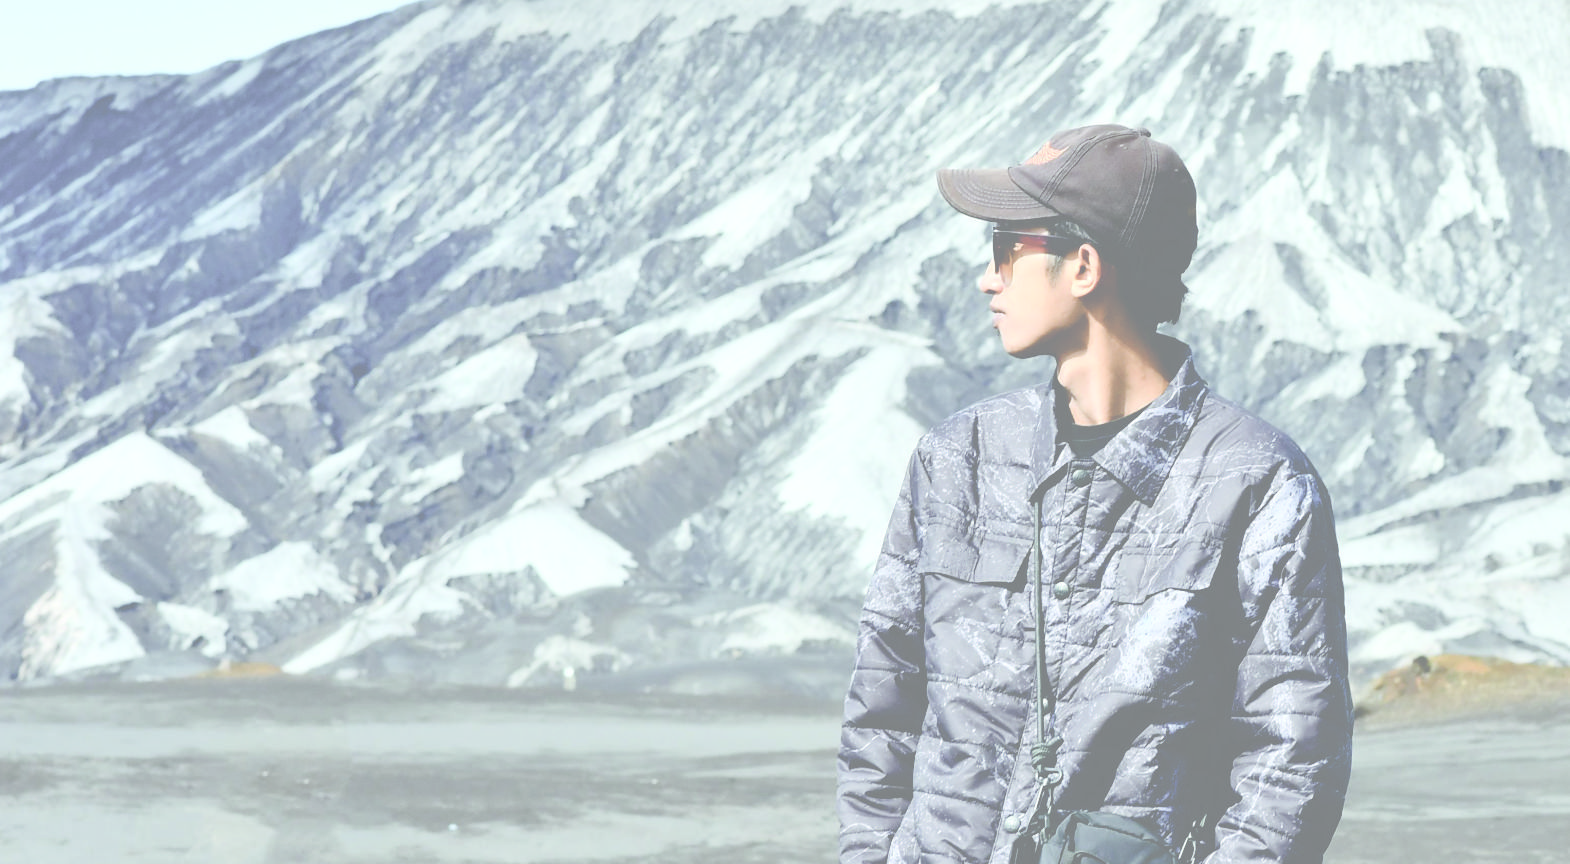
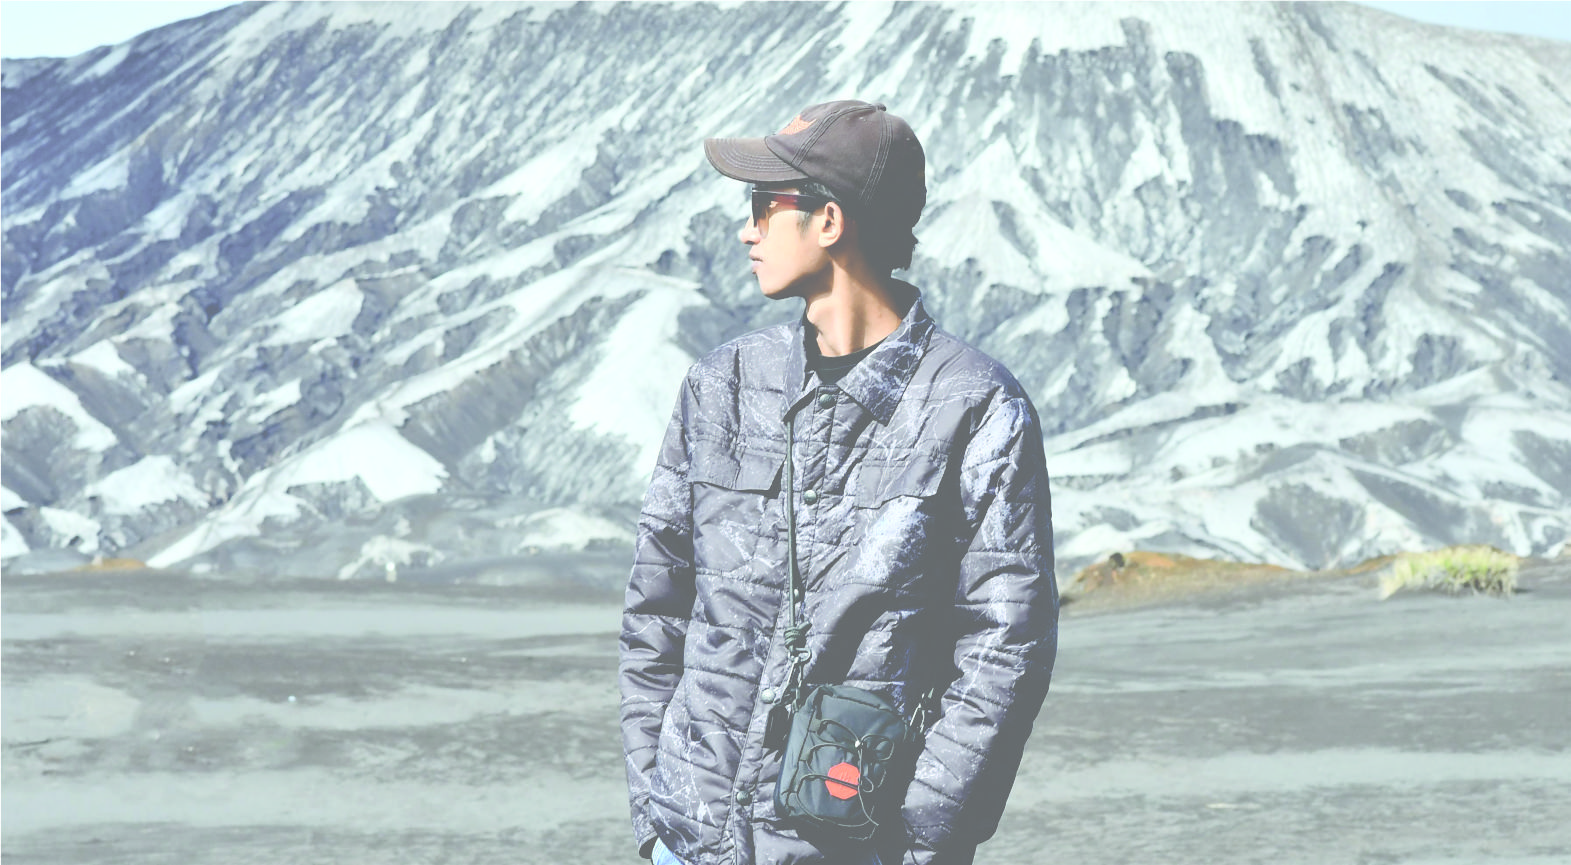
Rubah Full

diff --git a/index.html b/index.html
@@ -67,7 +67,7 @@
       <div class="container" data-aos="zoom-out">
         <div class="row justify-content-center">
           <div class="col-lg-9">
-            <h2>Halo Dunia</h2>
+            <h2>Halimi Hayat</h2>
             <p>I'm <span class="typed"
                 data-typed-items="Designer, Content Writer, Digital Marketing, Freelancer, Photographer">Designer</span><span
                 class="typed-cursor typed-cursor--blink" aria-hidden="true"></span></p>
@@ -404,8 +404,8 @@
                 <p>link for details</p>
                 <a href="assets/img/masonry-portfolio/masonry-portfolio-1.jpg" title="App 1"
                   data-gallery="portfolio-gallery-app" class="glightbox preview-link"><i class="bi bi-zoom-in"></i></a>
-                <a href="portfolio-details.html" title="More Details" class="details-link"><i
-                    class="bi bi-link-45deg"></i></a>
+                <a href="https://www.instagram.com/p/C-kJVYeJw4Q/?utm_source=ig_web_copy_link&igsh=MzRlODBiNWFlZA=="
+                  title="More Details" class="details-link"><i class="bi bi-link-45deg"></i></a>
               </div>
             </div><!-- End Portfolio Item -->
 
@@ -417,8 +417,8 @@
                 <a href="assets/img/masonry-portfolio/masonry-portfolio-2.jpg" title="Product 1"
                   data-gallery="portfolio-gallery-product" class="glightbox preview-link"><i
                     class="bi bi-zoom-in"></i></a>
-                <a href="portfolio-details.html" title="More Details" class="details-link"><i
-                    class="bi bi-link-45deg"></i></a>
+                <a href="https://www.youtube.com/@LEMBAGAPESANTRENAL-HASANY" title="More Details"
+                  class="details-link"><i class="bi bi-link-45deg"></i></a>
               </div>
             </div><!-- End Portfolio Item -->
 
@@ -430,8 +430,8 @@
                 <a href="assets/img/masonry-portfolio/masonry-portfolio-3.jpg" title="Branding 1"
                   data-gallery="portfolio-gallery-branding" class="glightbox preview-link"><i
                     class="bi bi-zoom-in"></i></a>
-                <a href="portfolio-details.html" title="More Details" class="details-link"><i
-                    class="bi bi-link-45deg"></i></a>
+                <a href="https://www.instagram.com/pwformasiruasurabayaa?utm_source=ig_web_button_share_sheet&igsh=ZDNlZDc0MzIxNw=="
+                  title="More Details" class="details-link"><i class="bi bi-link-45deg"></i></a>
               </div>
             </div><!-- End Portfolio Item -->
 
@@ -442,8 +442,8 @@
                 <p>link for details</p>
                 <a href="assets/img/masonry-portfolio/masonry-portfolio-4.jpg" title="App 2"
                   data-gallery="portfolio-gallery-app" class="glightbox preview-link"><i class="bi bi-zoom-in"></i></a>
-                <a href="portfolio-details.html" title="More Details" class="details-link"><i
-                    class="bi bi-link-45deg"></i></a>
+                <a href="https://www.instagram.com/reel/DCRc6dzqk4Y/?utm_source=ig_web_copy_link&igsh=MzRlODBiNWFlZA=="
+                  title="More Details" class="details-link"><i class="bi bi-link-45deg"></i></a>
               </div>
             </div><!-- End Portfolio Item -->
 
@@ -455,8 +455,8 @@
                 <a href="assets/img/masonry-portfolio/masonry-portfolio-5.jpg" title="Product 2"
                   data-gallery="portfolio-gallery-product" class="glightbox preview-link"><i
                     class="bi bi-zoom-in"></i></a>
-                <a href="portfolio-details.html" title="More Details" class="details-link"><i
-                    class="bi bi-link-45deg"></i></a>
+                <a href="https://www.instagram.com/p/CxHf9ojvMyw/?utm_source=ig_web_copy_link&igsh=MzRlODBiNWFlZA=="
+                  title="More Details" class="details-link"><i class="bi bi-link-45deg"></i></a>
               </div>
             </div><!-- End Portfolio Item -->
 
@@ -468,8 +468,8 @@
                 <a href="assets/img/masonry-portfolio/masonry-portfolio-6.jpg" title="Branding 2"
                   data-gallery="portfolio-gallery-branding" class="glightbox preview-link"><i
                     class="bi bi-zoom-in"></i></a>
-                <a href="portfolio-details.html" title="More Details" class="details-link"><i
-                    class="bi bi-link-45deg"></i></a>
+                <a href="https://www.instagram.com/p/DHgUj5zTbpy/?utm_source=ig_web_copy_link&igsh=MzRlODBiNWFlZA=="
+                  title="More Details" class="details-link"><i class="bi bi-link-45deg"></i></a>
               </div>
             </div><!-- End Portfolio Item -->
 
@@ -480,8 +480,8 @@
                 <p>link for details</p>
                 <a href="assets/img/masonry-portfolio/masonry-portfolio-7.jpg" title="App 3"
                   data-gallery="portfolio-gallery-app" class="glightbox preview-link"><i class="bi bi-zoom-in"></i></a>
-                <a href="portfolio-details.html" title="More Details" class="details-link"><i
-                    class="bi bi-link-45deg"></i></a>
+                <a href="https://sewavirtualofficesurabaya.com/gaji-kevin-diks-di-fc-copenhagen/" title="More Details"
+                  class="details-link"><i class="bi bi-link-45deg"></i></a>
               </div>
             </div><!-- End Portfolio Item -->
 
@@ -493,7 +493,7 @@
                 <a href="assets/img/masonry-portfolio/masonry-portfolio-8.jpg" title="Product 3"
                   data-gallery="portfolio-gallery-product" class="glightbox preview-link"><i
                     class="bi bi-zoom-in"></i></a>
-                <a href="portfolio-details.html" title="More Details" class="details-link"><i
+                <a href="https://www.youtube.com/@mifaltv" title="More Details" class="details-link"><i
                     class="bi bi-link-45deg"></i></a>
               </div>
             </div><!-- End Portfolio Item -->
@@ -506,8 +506,8 @@
                 <a href="assets/img/masonry-portfolio/masonry-portfolio-9.jpg" title="Branding 2"
                   data-gallery="portfolio-gallery-branding" class="glightbox preview-link"><i
                     class="bi bi-zoom-in"></i></a>
-                <a href="portfolio-details.html" title="More Details" class="details-link"><i
-                    class="bi bi-link-45deg"></i></a>
+                <a href="https://www.instagram.com/kknpplcakrawaladesablegaoloh?utm_source=ig_web_button_share_sheet&igsh=ZDNlZDc0MzIxNw=="
+                  title="More Details" class="details-link"><i class="bi bi-link-45deg"></i></a>
               </div>
             </div><!-- End Portfolio Item -->
 
@@ -820,14 +820,14 @@
               <i class="bi bi-envelope flex-shrink-0"></i>
               <div>
                 <h3>Email Us</h3>
-                <p>halimihytie@gmai.com.com</p>
+                <p>halimihytie@gmai.com</p>
               </div>
             </div><!-- End Info Item -->
 
           </div>
 
           <div class="col-lg-8">
-            <form action="https://formsubmit.co/jackkolor69@email.com" method="POST" data-aos="fade-up">
+            <form action="forms/contact.php" method="post" class="php-email-form" data-aos="fade-up"
               data-aos-delay="200">
               <div class="row gy-4">
 
@@ -902,7 +902,6 @@
   <div id="preloader"></div>
 
   <!-- Vendor JS Files -->
-
   <script src="assets/vendor/bootstrap/js/bootstrap.bundle.min.js"></script>
   <script src="assets/vendor/php-email-form/validate.js"></script>
   <script src="assets/vendor/aos/aos.js"></script>
@@ -916,6 +915,7 @@
 
   <!-- Main JS File -->
   <script src="assets/js/main.js"></script>
+
 </body>
 
 </html>
